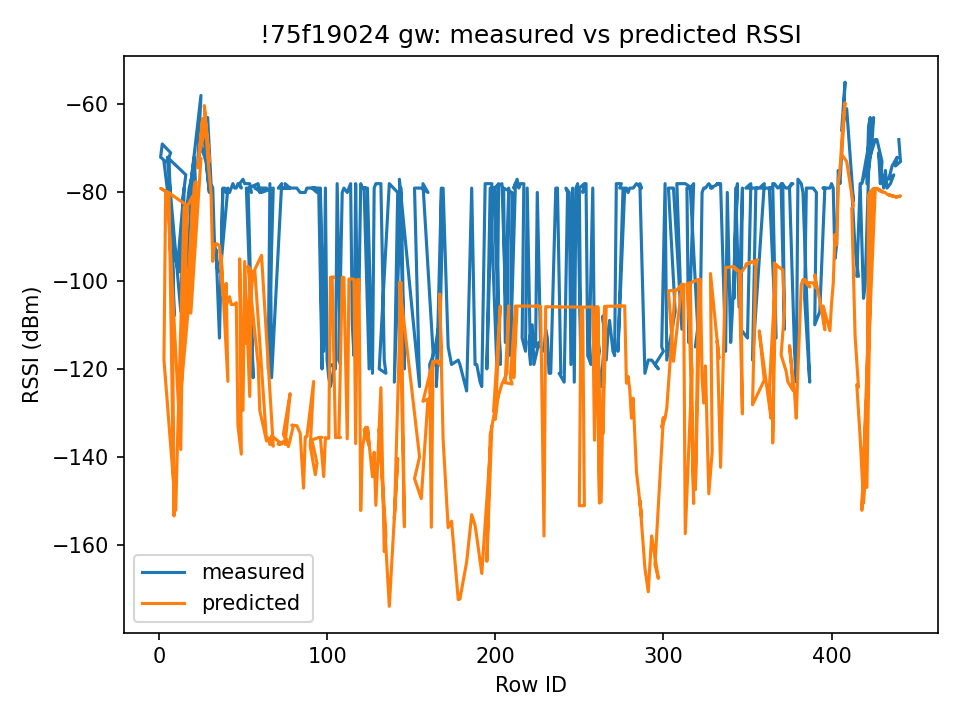
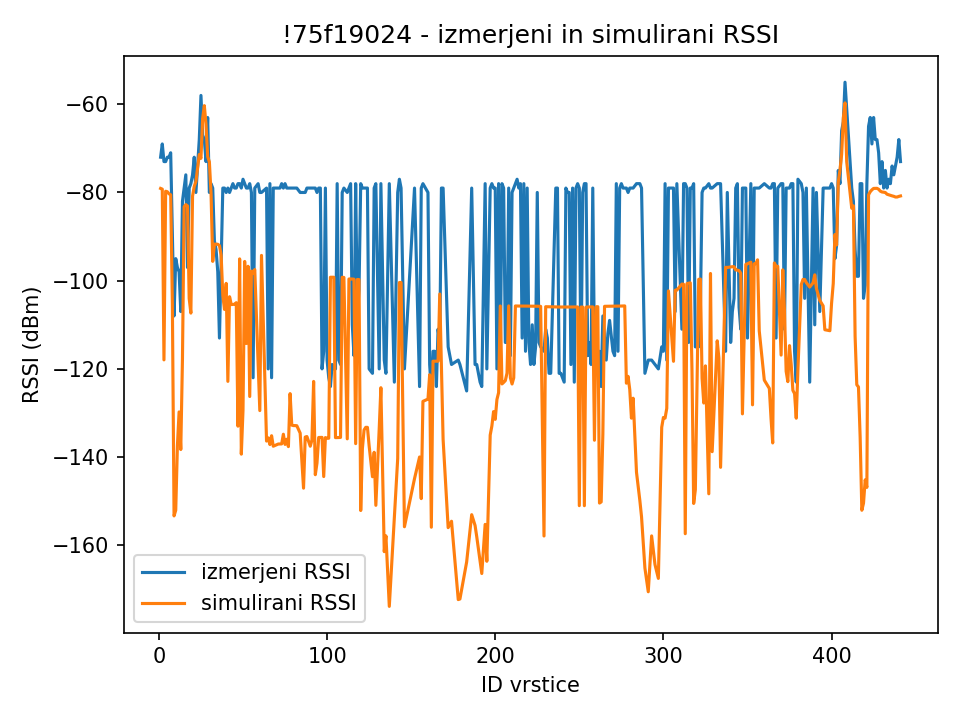
Poslovenčeni grafi

diff --git a/analyze/analyze_run.py b/analyze/analyze_run.py
@@ -810,7 +810,7 @@ def write_stats_and_plots(
                 st["x"],
                 st["diff"],
                 title=f"{f} - napaka glede na vidnost (meritev - simulacija)",
-                xlabel="Row ID",
+                xlabel="ID vrstice",
                 ylabel="RSSI napaka (dB)",
                 out_png=str(output_dir / f"{f}_diff.png"),
                 green_x=st["los_fresnel_clear_x"],
@@ -827,10 +827,10 @@ def write_stats_and_plots(
                 st["x"],
                 st["rssi"],
                 st["pred"],
-                label1="measured",
-                label2=pred_label,
-                title=f"{f} gw: measured vs {pred_label} RSSI",
-                xlabel="Row ID",
+                label1="izmerjeni RSSI",
+                label2="simulirani RSSI",
+                title=f"{f} - izmerjeni in simulirani RSSI",
+                xlabel="ID vrstice",
                 ylabel="RSSI (dBm)",
                 out_png=str(output_dir / f"{f}_val.png"),
             )
@@ -857,7 +857,7 @@ def write_stats_and_plots(
             save_multi_series_plot(
                 diff_series,
                 title=f"All gateways: RSSI napaka ({pred_label} - measured)",
-                xlabel="Row ID",
+                xlabel="ID vrstice",
                 ylabel="RSSI napaka (dB)",
                 out_png=str(output_dir / "all_sites_diff.png"),
             )
@@ -895,7 +895,7 @@ def write_distance_boxplots(
             st["dist_km"],
             st["diff_values"],
             bin_km,
-            title=f"{f} gateway: {pred_label} error by distance ({bin_tag} bins)",
+            title=f"{f} - napaka glede na dolžino povezave",
             ylabel="RSSI napaka (dB)",
             out_png=str(out_png),
         )
@@ -921,8 +921,8 @@ def write_non_los_length_scatter(
         save_scatter_with_linreg(
             st["los_obstructed_dist"],
             st["los_obstructed_diff"],
-            title=f"{f} gateway: {pred_label} error vs link length (non-LOS)",
-            xlabel="Link length (km)",
+            title=f"{f} - napaka glede na dolžino povezave",
+            xlabel="Dolžina povezave (km)",
             ylabel="RSSI napaka (dB)",
             out_png=str(out_png),
         )

diff --git a/analyze/2026_01_18_2_point_Skrbina-Kokoska/fpls_pred/analyze.md b/analyze/2026_01_18_2_point_Skrbina-Kokoska/fpls_pred/analyze.md
@@ -1,6 +1,6 @@
 # RF Site Planner – RSSI analysis
 
-- Generated: 2026-01-25 14:33:38
+- Generated: 2026-01-25 20:28:55
 
 ## Summary per gateway
 

diff --git a/analyze/2026_01_18_2_point_Skrbina-Kokoska/model_pred/analyze.md b/analyze/2026_01_18_2_point_Skrbina-Kokoska/model_pred/analyze.md
@@ -1,6 +1,6 @@
 # RF Site Planner – RSSI analysis
 
-- Generated: 2026-01-25 14:33:36
+- Generated: 2026-01-25 20:28:53
 
 ## Summary per gateway
 
